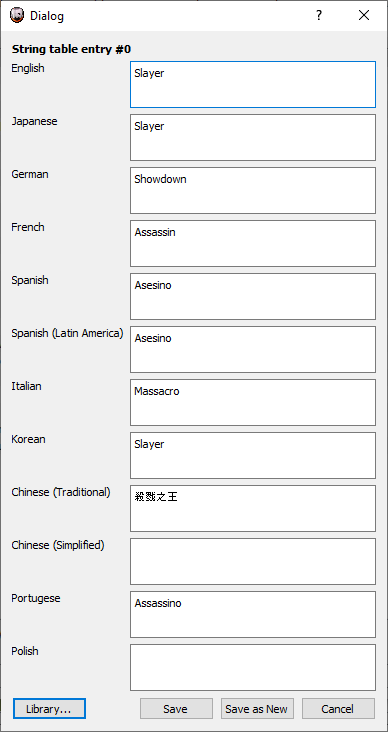
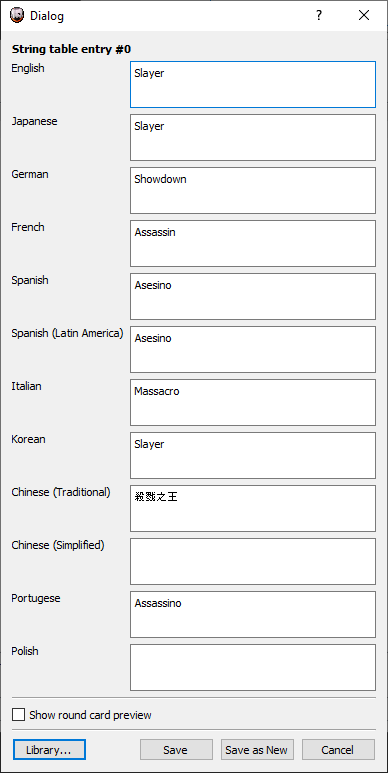
Support for saving *.mglo files; round card preview fixes; documentation updates
RVT can now save *.mglo files. I've tested hotloading one and it seems to work just fine.

The localized string editor now unchecks the "show preview" box when the preview is closed, so you can more easily reopen it by checking the box again.

Made the localized string editor window a bit larger, so that the textboxes aren't smaller now that there's a new checkbox.

Updated documentation to show the round card preview.

diff --git a/native/src/ReachVariantTool/editor_state.cpp b/native/src/ReachVariantTool/editor_state.cpp
@@ -145,15 +145,24 @@ bool ReachEditorState::saveVariant(QWidget* parent, bool saveAs) {
       QMessageBox::information(parent, tr("No game variant is open"), tr("Can't save a file if there's no actual file open... Wait, what? Why did we even let you try this?"));
       return false;
    }
+   bool is_megalo = editor.variant()->multiplayer.type == ReachGameEngine::multiplayer;
+
    QString fileName;
    if (saveAs) {
+      QString allowed_formats;
+      if (is_megalo) {
+         allowed_formats = tr("Game Variant (*.bin);;Raw Compiled Megalo File (*.mglo);;All Files (*)");
+      } else {
+         allowed_formats = tr("Game Variant (*.bin);;All Files (*)");
+      }
+
       QString defaultSave;
       this->getDefaultSaveDirectory(defaultSave);
       fileName = QFileDialog::getSaveFileName(
          parent,
          tr("Save Game Variant"), // window title
          defaultSave, // working directory and optionally default-selected file
-         tr("Game Variant (*.bin);;All Files (*)") // filetype filters
+         allowed_formats // filetype filters
       );
       if (fileName.isEmpty())
          return false;
@@ -167,8 +176,30 @@ bool ReachEditorState::saveVariant(QWidget* parent, bool saveAs) {
    }
    //
    GameVariantSaveProcess save_process;
+   if (is_megalo && fileName.endsWith(".mglo", Qt::CaseInsensitive)) {
+      save_process.set_flag(GameVariantSaveProcess::flag::save_bare_mglo);
+   }
    editor.variant()->write(save_process);
    if (save_process.variant_is_editor_only()) {
+
+      if (save_process.has_flag(GameVariantSaveProcess::flag::save_bare_mglo)) {
+         QMessageBox::StandardButton result = QMessageBox::critical(
+            parent,
+            tr("Error; file not saved"),
+            tr(
+               "Your game variant exceeds the limits of Halo: Reach's game variant file format. "
+               "When saving a normal file, ReachVariantTool can embed non-standard data into the "
+               "end of the file, so that you can still save and later load your file and fix "
+               "things. This is not possible when saving a bare *.mglo file.\n\n"
+               "<b><i>Your file has not been saved.</i></b>\n\n"
+               "If you don't have time to get your game variant under the limits right now, then "
+               "you should save a normal file (*.bin) so you can come back to it later."
+            )
+         );
+         file.cancelWriting();
+         return false;
+      }
+
       auto text = tr("Your game variant exceeds the limits of Halo: Reach's game variant file format. As such, the following data will have to be embedded in a non-standard way to avoid data loss:\n\n");
       if (save_process.has_flag(GameVariantSaveProcess::flag::uses_xrvt_scripts))
          text += tr(" - All script code\n");

diff --git a/native/src/ReachVariantTool/game_variants/base.cpp b/native/src/ReachVariantTool/game_variants/base.cpp
@@ -416,6 +416,13 @@ bool GameVariant::read_mglo(const void* data, size_t size) {
    return true;
 }
 void GameVariant::write(GameVariantSaveProcess& save_process) noexcept {
+   if (save_process.has_flag(GameVariantSaveProcess::flag::save_bare_mglo)) {
+      auto* mp = this->multiplayer.data->as_multiplayer();
+      assert(mp != nullptr && "Why was GameVariantSaveProcess::flag::save_bare_mglo set when this isn't a multiplayer variant?");
+      mp->write(save_process);
+      return;
+   }
+
    auto& writer = save_process.writer;
    //
    this->blamHeader.write(writer.bytes);

diff --git a/native/src/ReachVariantTool/ui/localized_string_editor.cpp b/native/src/ReachVariantTool/ui/localized_string_editor.cpp
@@ -177,6 +177,12 @@ LocalizedStringEditorModal::LocalizedStringEditorModal(QWidget* parent) : QDialo
                   break;
                }
             }
+
+            // Handle close button: uncheck the box
+            QObject::connect(dialog, &QDialog::rejected, this, [this]() {
+               const auto blocker = QSignalBlocker(this->ui.togglePreviewRoundCard);
+               this->ui.togglePreviewRoundCard->setChecked(false);
+            });
          }
          if (checked)
             this->_roundCardPreview.dialog->show();

diff --git a/native/src/ReachVariantTool/game_variants/io_process.h b/native/src/ReachVariantTool/game_variants/io_process.h
@@ -13,6 +13,7 @@ class GameVariantSaveProcess {
             //
             uses_xrvt_scripts = 0x0000000000000001,
             uses_xrvt_strings = 0x0000000000000002,
+            save_bare_mglo    = 0x0000000000000004,
          };
       };
       using flags_t = std::underlying_type_t<flag::type>;
